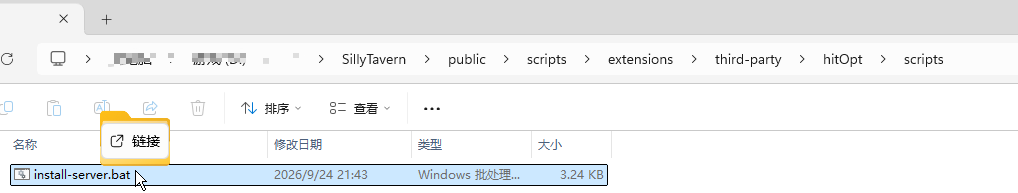
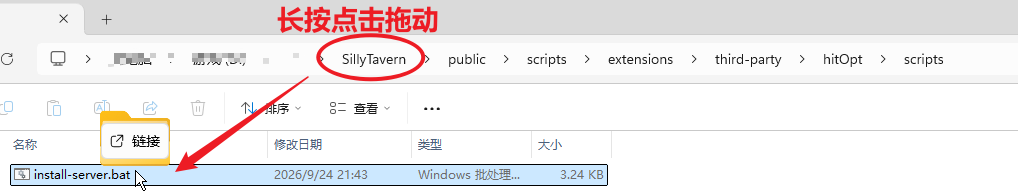
README 换成带操作标注的安装截图（从地址栏拖，不用另开窗口）

diff --git a/README.md b/README.md
@@ -135,12 +135,12 @@ enableServerPlugins: true      # ⚠ 默认是 false，必须改成 true
 <酒馆>/public/scripts/extensions/third-party/hitOpt/scripts/install-server.bat
 ```
 
-- **Windows**：把**酒馆根目录**（里面有 `config.yaml` 的那一层）**拖到那个 `.bat` 上**。
-  点进那个文件夹，你会看到它长这样：
+- **Windows**：把**酒馆根目录**拖到那个 `.bat` 上。不用另开窗口 ——
+  就照下面这样，在地址栏里**按住 `SillyTavern` 那一级往左下方拖**，拖到 `install-server.bat` 上松手：
 
-![install-server.bat](docs/install-bat.png)
+![把地址栏里的 SillyTavern 拖到 install-server.bat 上](docs/install-bat.png)
 
-  拖上去松手 → 弹出一个黑窗口 → 它自己建好 `<酒馆>/plugins/hitopt-git/` 并把两个文件放进去
+  松手后会弹出一个黑窗口，它自己建好 `<酒馆>/plugins/hitopt-git/` 并把两个文件放进去
   （**只拷这两个文件，不会动你的任何记录**）。
 - **macOS / Linux**：手动把本仓库 `server/` 里的两个文件拷进 `<酒馆>/plugins/hitopt-git/`：
 
